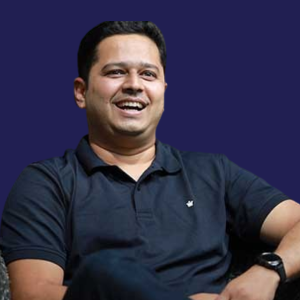
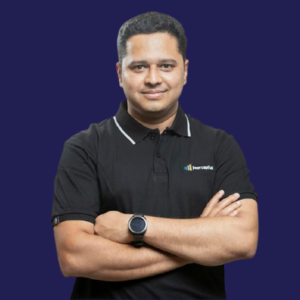
Updated Image + Corrected Amit Spell

diff --git a/src/Components/Speakers.jsx b/src/Components/Speakers.jsx
@@ -22,7 +22,7 @@ const Speakers = () => {
   const data = [
     {
       id: 1,
-      name: "Amit Singhal",
+      name: "Amit Singal",
       title: "General Partner",
       image: Amit_Singhal,
       logo: fluid_ventures,
